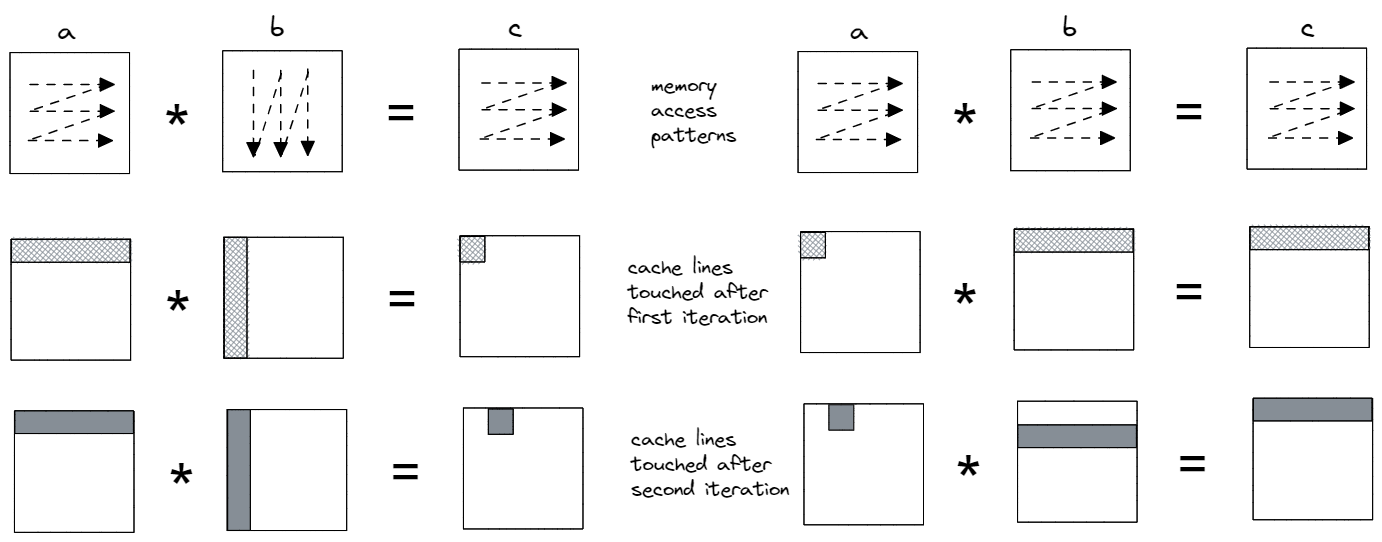
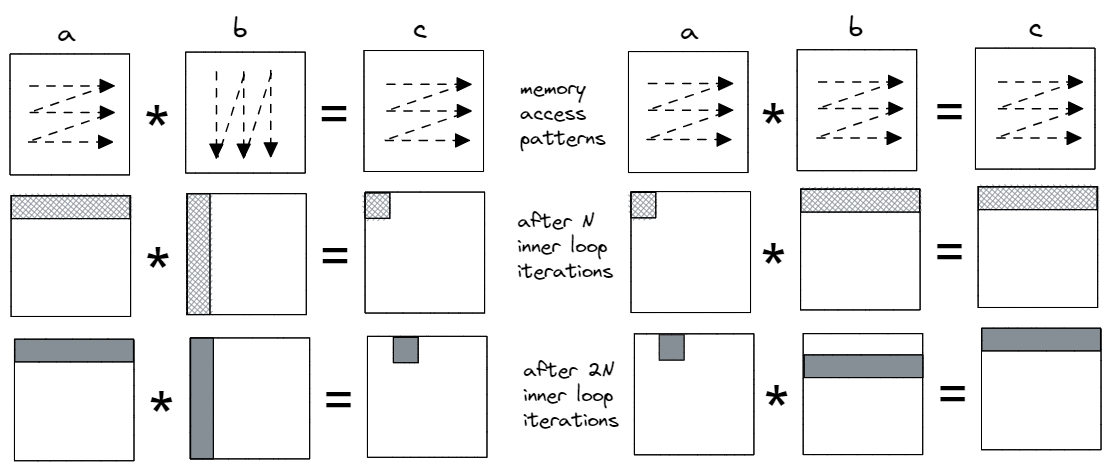
Finished memory footprint case study

diff --git a/chapters/8-Optimizing-Memory-Accesses/9-5 Memory Profiling.md b/chapters/8-Optimizing-Memory-Accesses/9-5 Memory Profiling.md
@@ -30,7 +30,7 @@ Example of visualizing the memory usage and footprint of a hypothetical program 
 
 As we would expect, the RSS is always less or equal than the VSZ. Looking at the chart, we can spot four phases of the program. Phase 1 is the ramp up of the program during which it allocates its memory. Phase 2 is when the algorithm starts using this memory, notice that the memory usage stays constant. During phase 3, the program deallocates part of the memory and then allocates a slightly higher amount of memory. Phase 4 is a lot more chaotic than phase 2 with many objects allocated and deallocated. Notice, the spikes in VSZ are not necessary followed by corresponding spikes in RSS. That might happen when the memory was reserved by an object but never used.
 
-![Example of the memory usage and footprint (hypothetical scenario).](../../img/memory-access-opts/MemoryUsageAndFootprint.png){#fig:MemUsageFootprint width=100%}
+![Example of the memory usage and footprint (hypothetical scenario).](../../img/memory-access-opts/MemoryUsageAndFootprint.png){#fig:MemUsageFootprint width=90%}
 
 Now let's switch to memory footprint. It defines how much memory a process touches during a period of time, e.g. in MB per second. In a hypothetical scenario, visualized on figure @fig:MemUsageFootprint, we plot memory usage per 100 milliseconds. The solid line tracks the total unique memory accessed per 100 ms. Here, we don't count how many times a certain memory location was accessed. That is, if a memory location was loaded twice during a 100ms interval, we count the touched memory only once. For the same reason, we cannot aggregate time intervals. In our example, we know that during the phase 2, the program was touching roughly 10MB every 100ms. But we cannot say that the memory footprint was 100 MB per second, because the same memory location could be loaded in adjacent 100ms time intervals. It would be true only if the program never repeated memory accesses within every one second interval.
 
@@ -87,13 +87,13 @@ In the original code (on the left), matrix `b` is accessed in a column-major way
 
 In the transformed code on the right, the inner loop accesses just a single element in matrix `a`. We multiply it by all the elements in corresponding row in `b` and accumulate products into the corresponding row in `c`. Thus, the first N iterations of the inner loop calculate products of element 0 in `a` and row 0 in `b` and accumulate results in row 0 in `c`. Next N iterations multiply element 0 in `a` and row 0 in `b` and accumulate results in row 0 in `c`.
 
-![Memory access pattern and cache lines touched after first iterations (not to scale).](../../img/memory-access-opts/MemoryFootprint.png){#fig:MemFootprint width=100%}
+![Memory access pattern and cache lines touched after the first N and 2N iterations of the inner loop (*images not to scale*).](../../img/memory-access-opts/MemoryFootprint.png){#fig:MemFootprint width=90%}
 
 Let's confirm the effect under Intel [SDE](https://www.intel.com/content/www/us/en/developer/articles/tool/software-development-emulator.html)[^1], Software Development Emulator tool for x86-based platforms. SDE is built upon the dynamic binary instrumentation mechanism, which allows to intercept every single instruction. It obviously comes with a huge cost. For the experiment we run here, slowdown of 100x is common. 
 
 To prevent compiler interference in our experiment, we disabled vectorization and unrolling optimizations, so that each version has only one hot loop with exactly 7 assembly instructions. We use this to uniformly compare memory footprint intervals. Instead of time intervals, we use intervals measured in machine instructions. Example of running SDE memory footprint tool is shown below. Notice we use `-fp_icount 28K` option which means measure memory footprint for each interval of 28K instructions. This value is specifically choosen, because it matches one iteration of the inner loop in "before" and "after" cases.
 
-SDE measures footprint in cache lines (64 KB) by default, but it can also measure in memory pages (4KB on x86). We combined the output and put it side by side. Also, a few not relevant columns were removed from the output. The first column `PERIOD` marks intervals of 28K instructions. The column `LOAD` tells how many cache lines were accessed by load instructions. Recall from the previous discussion, the same cache line accessed twice counts only once. Similarly, the column `STORE` tells how many cache lines were stored. The column `CODE` counts accessed cache lines that store instructions that were executed during that period. Finally, `NEW` counts cache lines touched during a period, and that were not seen before by the program.
+SDE measures footprint in cache lines (64 KB) by default, but it can also measure in memory pages (4KB on x86). We combined the output and put it side by side. Also, a few not relevant columns were removed from the output. The first column `PERIOD` marks the start of intervals of 28K instructions. The column `LOAD` tells how many cache lines were accessed by load instructions. Recall from the previous discussion, the same cache line accessed twice counts only once. Similarly, the column `STORE` tells how many cache lines were stored. The column `CODE` counts accessed cache lines that store instructions that were executed during that period. Finally, `NEW` counts cache lines touched during a period, and that were not seen before by the program.
 
 Important note before we proceed, memory footprint reported by SDE does not equal to utilized memory bandwidth. It is because it doesn't account for which memory operations were served from memory.
 
@@ -126,19 +126,21 @@ PERIOD    LOAD  STORE  CODE  NEW   |   PERIOD    LOAD  STORE  CODE  NEW
 ...
 ```
 
-Let's discuss the number that we see. For the original code (on the left), in the first period, SDE reports that the algorithm loads 4351 cache lines. Let's do the math and see if we get the same number. The oririnal inner loop accesses row 0 in matrix `a`. Remember that the size of `float` is 4 bytes and the size of a cache line is 64 bytes. So, for matrix `a`, the algorithms loads `(4096 * 4 bytes) / 64 bytes = 256` cache lines. For matrix `b`, the algorithm accesses column 0. Every element resides on it's own cache line, so for matrix `b` it loads 4096 cache lines. We accumulate all products into a single element in `c`, so 1 cache line is *stored* in `c`. We calculated `4096 + 256 = 4352` cache lines loaded and 1 cache line stored. The difference in one cache line may be related to SDE starting counting 28K instruction interval not at exact start of loop iteration. The seven instructions of the inner loop reside in a single cache line, but the 28K interval also captures the middle loop, that's why we see two cache lines (`CODE`) with instructions being accessed. Lastly, since all the data that we access haven't been seen before, all the cache lines are `NEW`.
+Let's discuss the numbers that we see. For the original code (on the left), in the first period, SDE reports that the algorithm loads 4351 cache lines. Let's do the math and see if we get the same number. The oririnal inner loop accesses row 0 in matrix `a`. Remember that the size of `float` is 4 bytes and the size of a cache line is 64 bytes. So, for matrix `a`, the algorithms loads `(4096 * 4 bytes) / 64 bytes = 256` cache lines. For matrix `b`, the algorithm accesses column 0. Every element resides on it's own cache line, so for matrix `b` it loads 4096 cache lines. We accumulate all products into a single element in `c`, so 1 cache line is *stored* in `c`. We calculated `4096 + 256 = 4352` cache lines loaded and 1 cache line stored. The difference in one cache line may be related to SDE starting counting 28K instruction interval not at exact start of loop iteration. The seven instructions of the inner loop reside in a single cache line, but the 28K interval also captures the middle loop, that's why we see two cache lines (`CODE`) with instructions being accessed. Lastly, since all the data that we access haven't been seen before, all the cache lines are `NEW`.
 
-Now let's switch to the second 28K instructions period. We have the same number of `LOAD`, `STORE`, and `CODE` cache lines, which is expected. However, there are no `NEW` cache lines touched. Let's understand why that happens. Look again at the figure @fig:MemFootprint. The second 4096 iterations of the inner loop will access row 0 in matrix `a` again. But the algorithm accesses column 1, which is new, but these elements reside on the same set of cache lines as column 0, so we have already accessed them in the previous 28K period. The pattern repeats through 14 more periods. Let's see why. In each cache line we have `64 bytes / 4 bytes (float) = 16` elements, which explains the pattern: we fetch new set of cache lines every 16 iterations. The last remaining question is why we have `4097 NEW` lines after the first 16 iterations of the inner loop? The answer is simple: the algorithm keeps on accessing row 0 in matrix `a`, so all those new cache lines come from matrix `b`.
+Now let's switch to the second 28K instructions period. We have the same number of `LOAD`, `STORE`, and `CODE` cache lines, which is expected. However, there are no `NEW` cache lines touched. Let's understand why that happens. Look again at the figure @fig:MemFootprint. The second 4096 iterations of the inner loop will access row 0 in matrix `a` again. But the algorithm accesses column 1, which is new, but these elements reside on the same set of cache lines as column 0, so we have already accessed them in the previous 28K period. The pattern repeats through 14 more periods. Let's see why. In each cache line we have `64 bytes / 4 bytes (float) = 16` elements, which explains the pattern: we fetch new set of cache lines every 16 iterations. The last remaining question is why we have 4097 `NEW` lines after the first 16 iterations of the inner loop? The answer is simple: the algorithm keeps on accessing row 0 in matrix `a`, so all those new cache lines come from matrix `b`.
 
-[TODO]: A side note. Keep in mind that it still doesn't tell anything about how cache friendly this code is. L1 cache in recent processors can only accomodate ~1000 cache lines, L2 ~32K lines. This code will evict cache lines that correspond to matrix `b`. But if the L1 cache can accomodate ~5000 cache lines, then we could potentially see comparable performance between two versions. 
+For the transformed version, it looks much more consistent with all periods having very similar numbers, except the first. In the first period, we access 1 cache line in matrix `a`; `(4096 * 4 bytes) / 64 bytes = 256` cache lines in `b`; `(4096 * 4 bytes) / 64 bytes = 256` cache line are stored into `c`, a total of 513 lines. In the second period, we access the same cache line from matrix `a`, new set of 256 cache lines from matrix `b` and the same set of cache lines from matrix `c`. Only the lines from matrix `b` have not been seen before, that is why the second period has `NEW` 256 cache lines. The period that starts with instruction `3441306` has 257 `NEW` lines accessed. One additional cache line comes from accessing element `a[0][17]` in matrix `a`, that hasn't been acccessed before.
 
-I STOPPED HERE
+In the two scenarios that we explored, we confirmed our understanding of the algorithm by the SDE output. But be aware that you cannot tell whether the algorithm is cache friendly just by looking at the output of the SDE footprint tool. In our case, we simply looked at the code and explained the numbers fairly easily. But without knowing what the algorithm is doing, it's impossible to make the right call. Here's why. The L1 cache in modern x86 processors can only accomodate up to ~1000 cache lines. When you look at the algorithm that accesses, say, 500 lines per 1M instructions, it may be tempting to conclude that the code must be cache friendly, because 500 lines can easily fit into L1 cache. But we know nothing about the nature of those accesses. If those accesses are made in a random fashion, such code is far being "friendly". The output of the SDE footprint tool merely tells us how much memory was accessed, but we don't know whether those accesses hit in caches or not. You've got to read the next case study for that one.
 
-For the transformed version, it looks much more consistent with all periods having very similar numbers, except the first. In the first period we access 1 cache line in matrix `a`; `(4096 * 4 bytes) / 64 bytes = 256` cache lines in `b`; `(4096 * 4 bytes) / 64 bytes = 256` cache line are stored into `c`.
+As an example of what you could expect to see in real applications, figure @fig:MemFootCaseStudyFourBench shows the memory footprints of four popular benchmarks. You can see they all have very different behavior. Clang compilation has very high memory activity at the beginning, but decreases after that to about 15MB per 1B instructions. As a developer of Clang trying to improve it, I would be concerned about the two spikes around marks `67` and `76` billion instructions. Are those two spikes to 50MB expected? Could they be related to some memory-hungry optimization passes or they correspond to something else?
 
-[TODO]: Run four different benchmarks, look at their memory footprints.
+![Case study of memory footprints of four benchmarks. MEM - total memory accessed during 1B instructions interval. NEW - accessed memory that has not been seen before.](../../img/memory-access-opts/MemFootCaseStudyFourBench.png){#fig:MemFootCaseStudyFourBench width=100%}
 
-Still confused about instructions as a measure of time? Let me address that. You can approximately convert the timeline from instructions to seconds if you know the overall IPC for a workload. For instance, at IPC=1 and processor frequency of 4GHz, 1B instructions run in 250 milliseconds, at IPC=2, 1B instructions run in 125 ms, and so on. You can port a memory footprint chart from MB per 1B instructions to MB/s if you measure the IPC of a workload on the target system and observe CPU frequency while it's running.
+Blender benchmark is very stable, where we can clearly see the start and end of rendering of each frame. This basically allows us to concentrate on just a single frame, without looking at the entire 1000+ frames. The Stockfish benchmark is a lot more chaotic, probably because the chess engine crunches different positions which require different amount of resources. Finally, the AI_bench memory footprint is very interesting as we can spot repetitive patterns. After the initial startup, there are five or six humps from `40B` to `95B`, then three regions that end with a sharp spike to 200MB, and then again three mostly flat regions hovering around 25MB per 1B instructions. All this could be actionable information that can be used to optimize the application.
+
+Are you still confused about instructions as a measure of time? Let us address that. You can approximately convert the timeline from instructions to seconds if you know the overall IPC for a workload. For instance, at IPC=1 and processor frequency of 4GHz, 1B instructions run in 250 milliseconds, at IPC=2, 1B instructions run in 125 ms, and so on. You can port a memory footprint chart from MB per 1B instructions to MB/s if you measure the IPC of a workload on the target system and observe CPU frequency while it's running.
 
 ### Case Study: Temporal And Spatial Locality Analysis 
 
